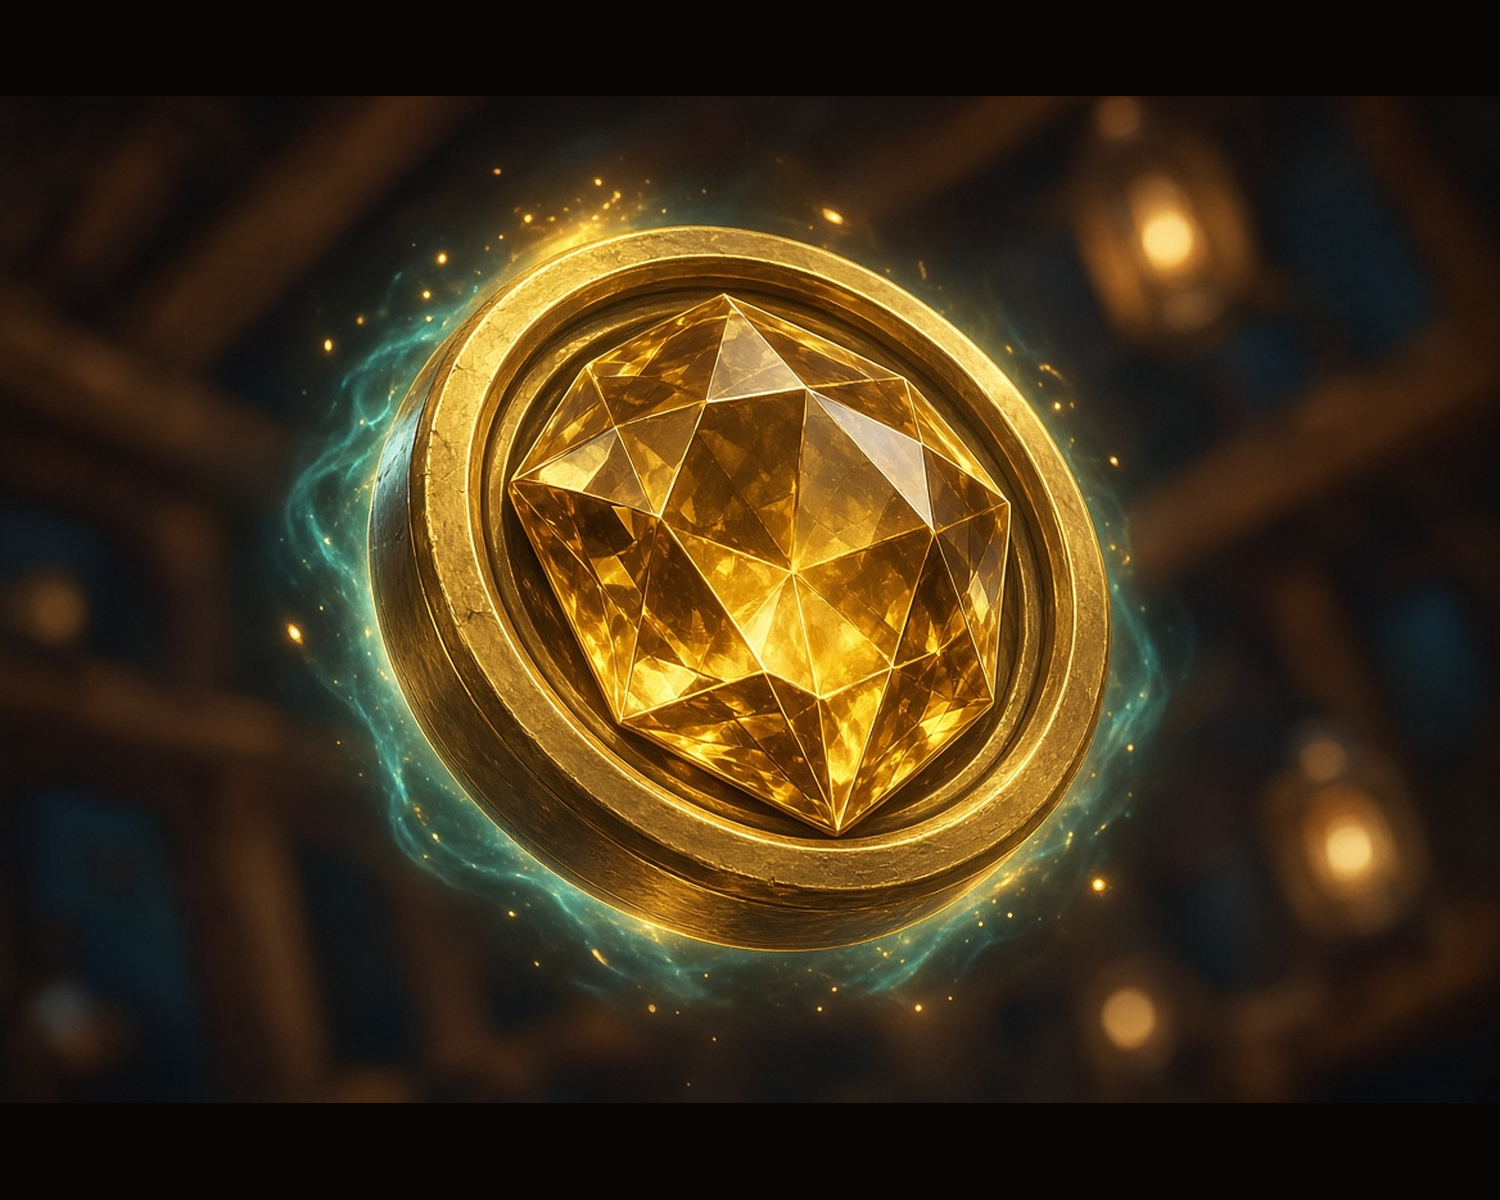
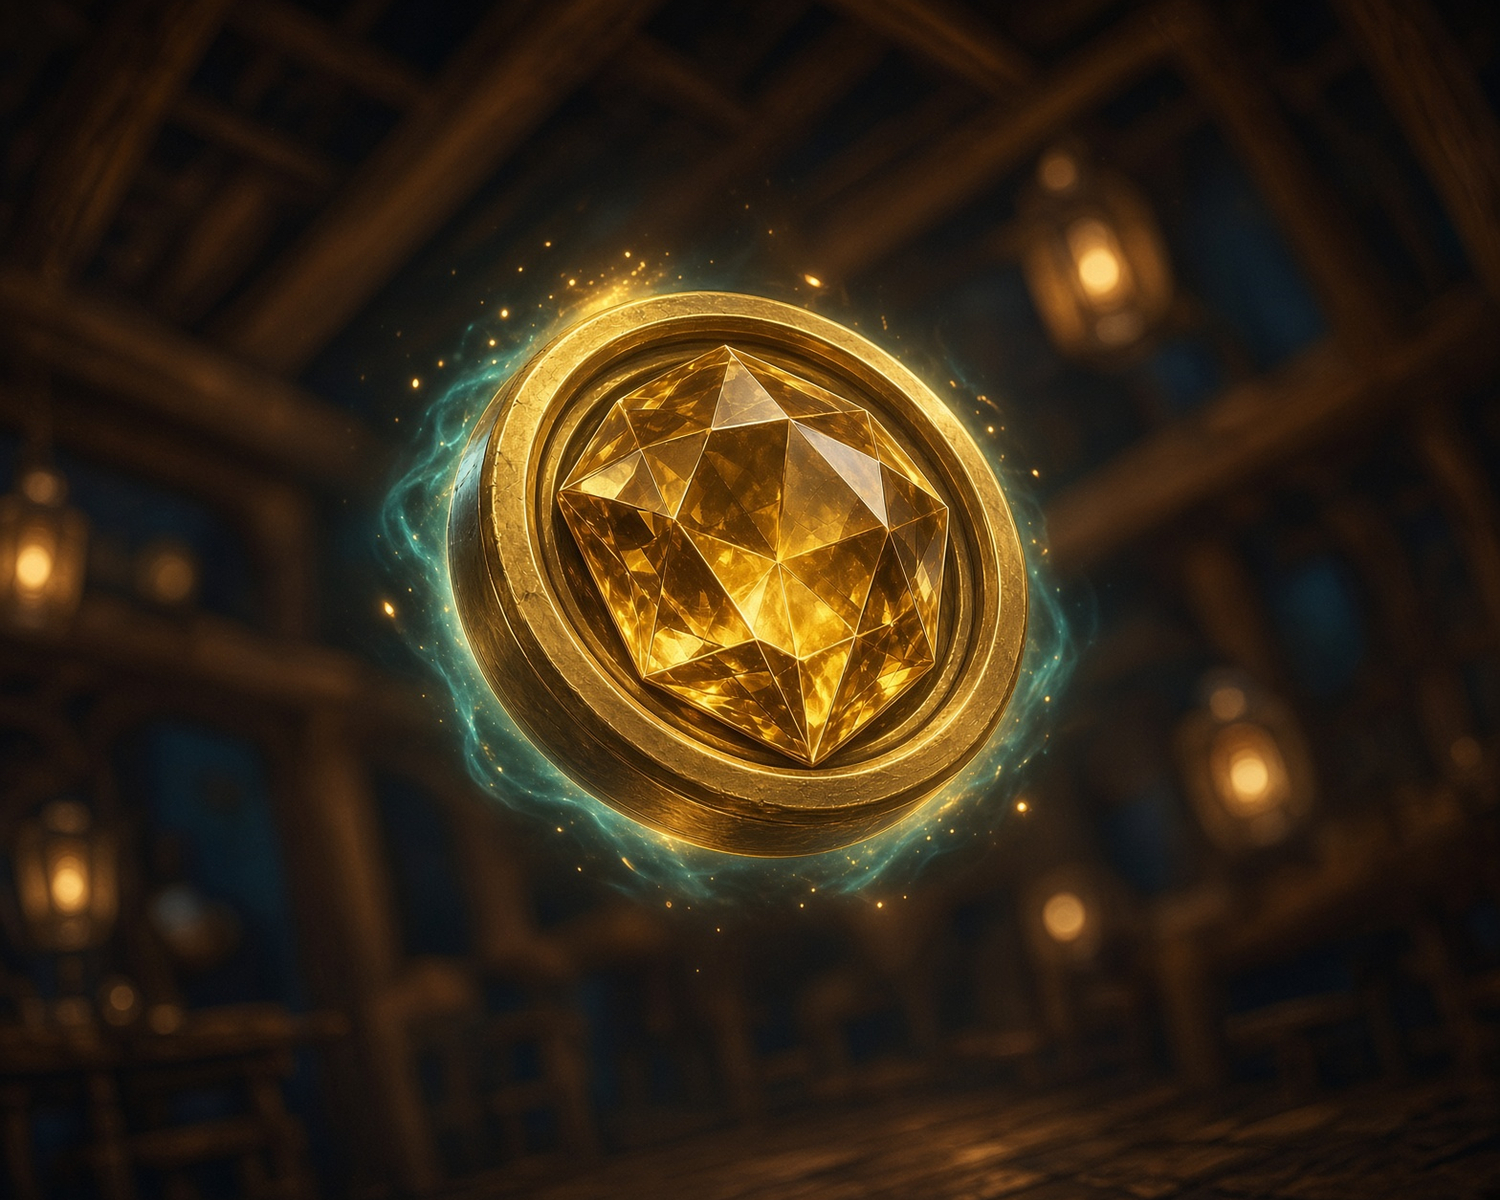
v0.091 coin+e40 fill-frame art

diff --git a/fantasy_arena/index.html b/fantasy_arena/index.html
@@ -4,13 +4,13 @@
 <meta charset="UTF-8" />
 <meta name="viewport" content="width=device-width, initial-scale=1" />
 <title>판타지 아레나</title>
-<link rel="stylesheet" href="css/game.css?v=0.090" />
+<link rel="stylesheet" href="css/game.css?v=0.091" />
 </head>
 <body>
 <button class="bgm-btn" id="bgmBtn" title="모험 BGM">♪</button>
 <div id="app">
   <section id="title" class="screen active">
-    <div class="build-ver" id="buildVer">v0.090</div>
+    <div class="build-ver" id="buildVer">v0.091</div>
     <h1 class="title title-logo-wrap"><img class="title-logo" src="assets/img/ui/logo_fantasy_arena.png" alt="Fantasy Arena" /></h1>
     <div class="subtitle">종족을 고르세요 · 오리지널 규칙 축소판</div>
     <div class="title-body">
@@ -190,14 +190,14 @@
 </div>
 
 
-<script src="js/cards-data.js?v=0.090"></script>
-<script src="js/vfx.js?v=0.090"></script>
-<script src="js/bgm.js?v=0.090"></script>
-<script src="js/sfx.js?v=0.090"></script>
-<script src="js/settings.js?v=0.090"></script>
-<script src="js/render.js?v=0.090"></script>
-<script src="js/combat.js?v=0.090"></script>
-<script src="js/spell-fx.js?v=0.090"></script>
-<script src="js/game.js?v=0.090"></script>
+<script src="js/cards-data.js?v=0.091"></script>
+<script src="js/vfx.js?v=0.091"></script>
+<script src="js/bgm.js?v=0.091"></script>
+<script src="js/sfx.js?v=0.091"></script>
+<script src="js/settings.js?v=0.091"></script>
+<script src="js/render.js?v=0.091"></script>
+<script src="js/combat.js?v=0.091"></script>
+<script src="js/spell-fx.js?v=0.091"></script>
+<script src="js/game.js?v=0.091"></script>
 </body>
 </html>

diff --git a/index.html b/index.html
@@ -2,11 +2,11 @@
 <html lang="ko">
 <head>
   <meta charset="utf-8" />
-  <meta http-equiv="refresh" content="0; url=fantasy_arena/?v=0.090" />
+  <meta http-equiv="refresh" content="0; url=fantasy_arena/?v=0.091" />
   <title>Fantasy Arena</title>
-  <script>location.replace("fantasy_arena/?v=0.090");</script>
+  <script>location.replace("fantasy_arena/?v=0.091");</script>
 </head>
 <body>
-  <p><a href="fantasy_arena/?v=0.090">판타지 아레나 열기 (v0.090)</a></p>
+  <p><a href="fantasy_arena/?v=0.091">판타지 아레나 열기 (v0.091)</a></p>
 </body>
 </html>

diff --git a/fantasy_arena/js/game.js b/fantasy_arena/js/game.js
@@ -1,4 +1,4 @@
-const GAME_VERSION = "0.090";
+const GAME_VERSION = "0.091";
 window.GAME_VERSION = GAME_VERSION;
 
 function uid() { return Math.random().toString(36).slice(2, 9); }
